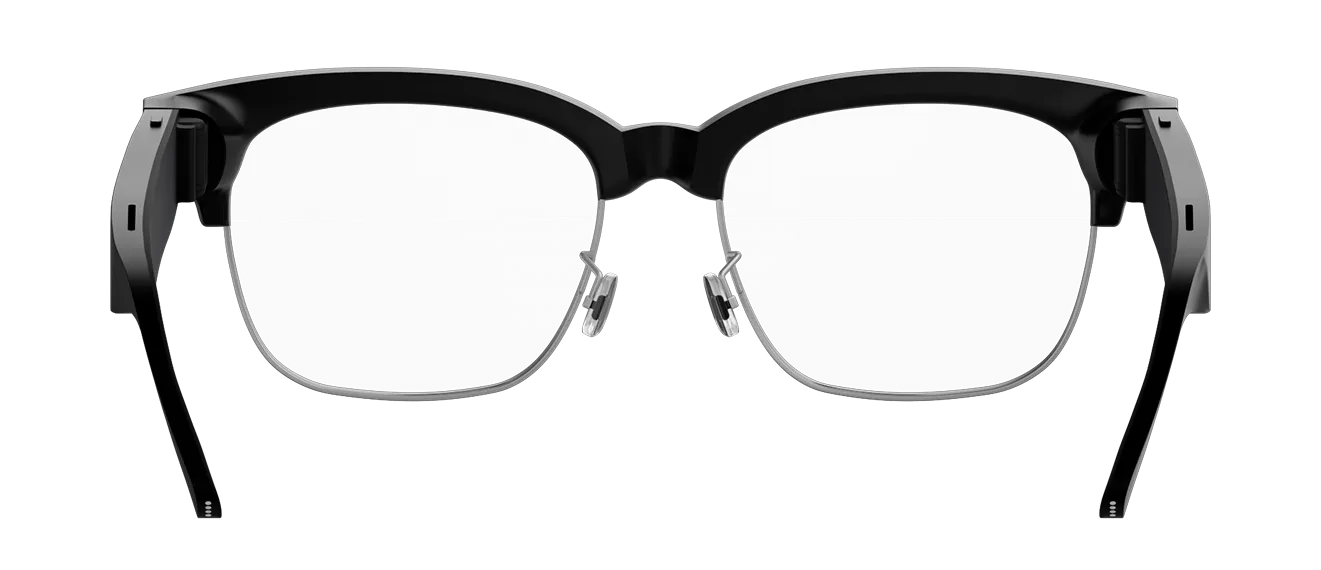
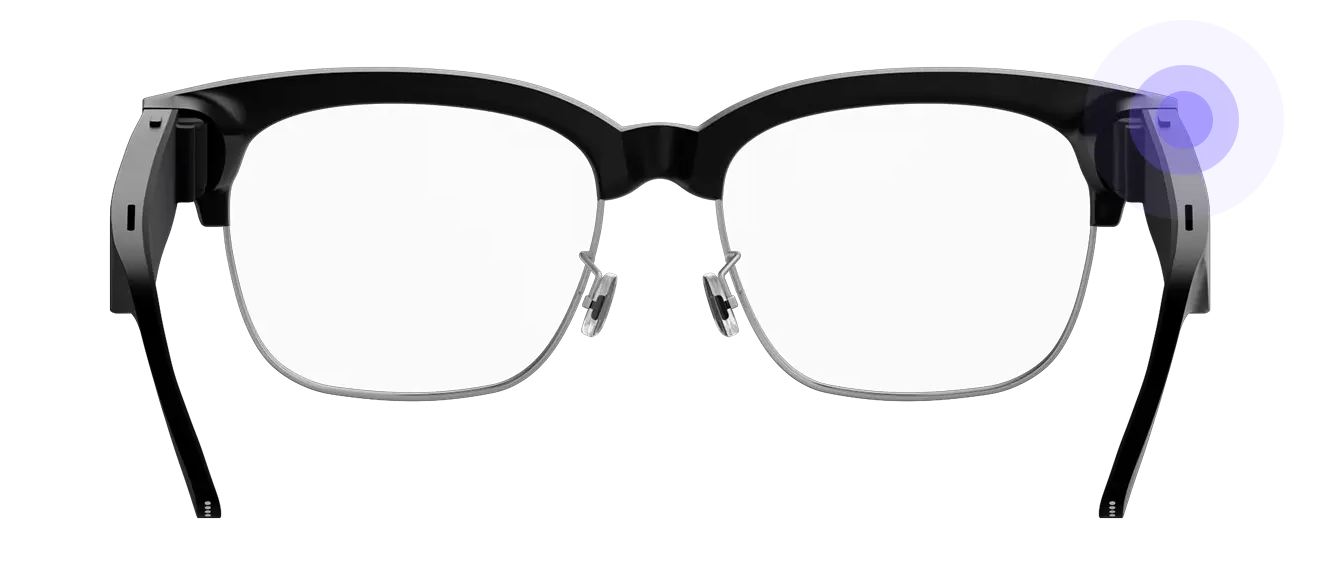
feat: chatui

Changed region(s): [[0.8076, 0.1193, 0.9629, 0.3877]]

diff --git a/src/components/ChatUI.jsx b/src/components/ChatUI.jsx
@@ -371,6 +371,38 @@ export default function ChatUI() {
     setIsChatVisible(false);
   };
 
+  useEffect(() => {
+    const handleResize = () => {
+      handleOverlayLoad();
+    };
+    window.addEventListener('resize', handleResize);
+    return () => window.removeEventListener('resize', handleResize);
+  }, []);
+
+
+  const overlayRef = useRef(null);
+  const [bubbleLeft, setBubbleLeft] = useState(null); // 초기에는 null
+
+  const handleOverlayLoad = () => {
+    if (overlayRef.current) {
+      const containerWidth = window.innerWidth;
+      // 작은 화면이면 가운데로 고정
+      if (containerWidth <= 1199) {
+        setBubbleLeft('50%');
+        return;
+      }
+
+      const rect = overlayRef.current.getBoundingClientRect();
+      const rightEdge = rect.left + rect.width;
+      const centerX = containerWidth / 7;
+
+      const offsetPx = rightEdge - centerX + 40;
+      const bubbleLeftPercent = (offsetPx / containerWidth) * 100;
+
+      setBubbleLeft(`${bubbleLeftPercent.toFixed(2)}%`);
+    }
+  };
+
   return (
     <PageContainer $isChatVisible={isChatVisible}>
     <ErrorPopup message={error} />
@@ -404,10 +436,22 @@ export default function ChatUI() {
             </ArrowButton>
           )}
 
-          <OverlayImage src="/ChatUI_00.webp" alt="ChatUI" />
+          <OverlayImage
+            ref={overlayRef}
+            src="/ChatUI_00.webp"
+            alt="ChatUI"
+            onLoad={handleOverlayLoad}
+          />
 
-          {!isChatVisible && (
-            <SpeechBubble onClick={handleSpeechBubbleClick}>
+          <LongpressImage
+            src="/longpress.png"
+            alt="hint"
+            $left={bubbleLeft}
+            $isChatVisible={isChatVisible} // ✅ 이거 꼭 있어야 함
+          />
+
+          {!isChatVisible && bubbleLeft && (
+            <SpeechBubble style={{ left: bubbleLeft }} onClick={handleSpeechBubbleClick}>
               <SpeechBubbleText>{t.chatui_bubble}</SpeechBubbleText>
             </SpeechBubble>
           )}
@@ -527,8 +571,7 @@ const SpeechBubble = styled.div`
     /* 안경 이미지 바로 위에 위치 */
     top: 55%;
     bottom: auto;
-    left: 78%;
-    transform: translateX(-50%) translateY(-100%);
+    transform: translateY(-100%);
     width: auto;
     min-width: 320px; /* 최소 너비 설정하여 텍스트가 한줄로 나오도록 */
     height: auto;
@@ -547,15 +590,16 @@ const SpeechBubble = styled.div`
     }
 
     /* 말풍선 꼬리 추가 */
+
     &::after {
         content: "";
         position: absolute;
         top: 100%;
-        left: 50%;
+        left: 85%;
         margin-left: -10px;
-        border-width: 10px;
+        border-width: 11px;
         border-style: solid;
-        border-color: #6E5CFF transparent transparent transparent;
+        border-color: #897aff transparent transparent transparent;
         filter: drop-shadow(0 2px 2px rgba(0, 0, 0, 0.2));
     }
 
@@ -797,6 +841,12 @@ const StyledChatContainer = styled.div`
     @media (max-width: 1320px) {
         margin-bottom: 50px;
     }
+
+    @media (max-width: 768px) {
+        max-height: none;     // ✅ 제한 해제
+        height: auto;         // ✅ 내용만큼 늘어나도록
+        overflow-y: visible;  // ✅ 아래로 흘러나오지 않게
+    }
 `;
 
 const CloseButton = styled.button`
@@ -843,7 +893,7 @@ const CloseButton = styled.button`
 const ArrowButton = styled.button`
     position: absolute;
     top: 40%;
-    ${props => props.direction === 'left' ? 'left: 18%;' : 'right: 18%;'}
+    ${props => props.direction === 'left' ? 'left: 23%;' : 'right: 23%;'}
     transform: translateY(-50%);
     background: rgba(255, 255, 255, 0.8);
     border: none;
@@ -890,3 +940,33 @@ const ArrowButton = styled.button`
         ${props => props.direction === 'left' ? 'left: 2%;' : 'right: 2%;'}
     }
 `;
+
+const LongpressImage = styled.img`
+    position: absolute;
+    width: 120px;
+    z-index: 10;
+    top: 73%;
+    left: ${props => props.$left};
+    transform: translateX(60%) translateY(-50%);
+    animation: floatUpDown 1.8s ease-in-out infinite alternate;
+    display: ${props => (props.$isChatVisible ? 'none' : 'block')};
+
+    @media (max-width: 1200px) {
+        width: 50px;
+        top: auto;
+        bottom: 18%;
+        left: 50%;
+        transform: translateX(-50%);
+        display: none;
+    }
+    @keyframes floatUpDown {
+        0% {
+            transform: translateX(60%) translateY(-50%);
+        }
+        100% {
+            transform: translateX(60%) translateY(-60%);
+        }
+    }
+`;
+
+

diff --git a/src/pages/Home.jsx b/src/pages/Home.jsx
@@ -16,6 +16,7 @@ import HistoryTimeline from "../components/HistoryTimeline.jsx";
 import PopupBanner from "../components/PopupBanner.jsx"
 import {useI18n} from '../hooks/useI18n.js';
 import {useI18nContext} from '../contexts/I18nContext.jsx';
+import ChatUI from "../components/ChatUI.jsx";
 
 export default function Home() {
   const { t, loading } = useI18n();
@@ -145,7 +146,7 @@ export default function Home() {
           <BrandIntro />
           <UsageIdea />
           <UsageVideoSection />
-           {/*<ChatUI />*/}
+           <ChatUI />
           <AppFeature />
           <PrivacyFeature />
           <HistoryTimeline />
